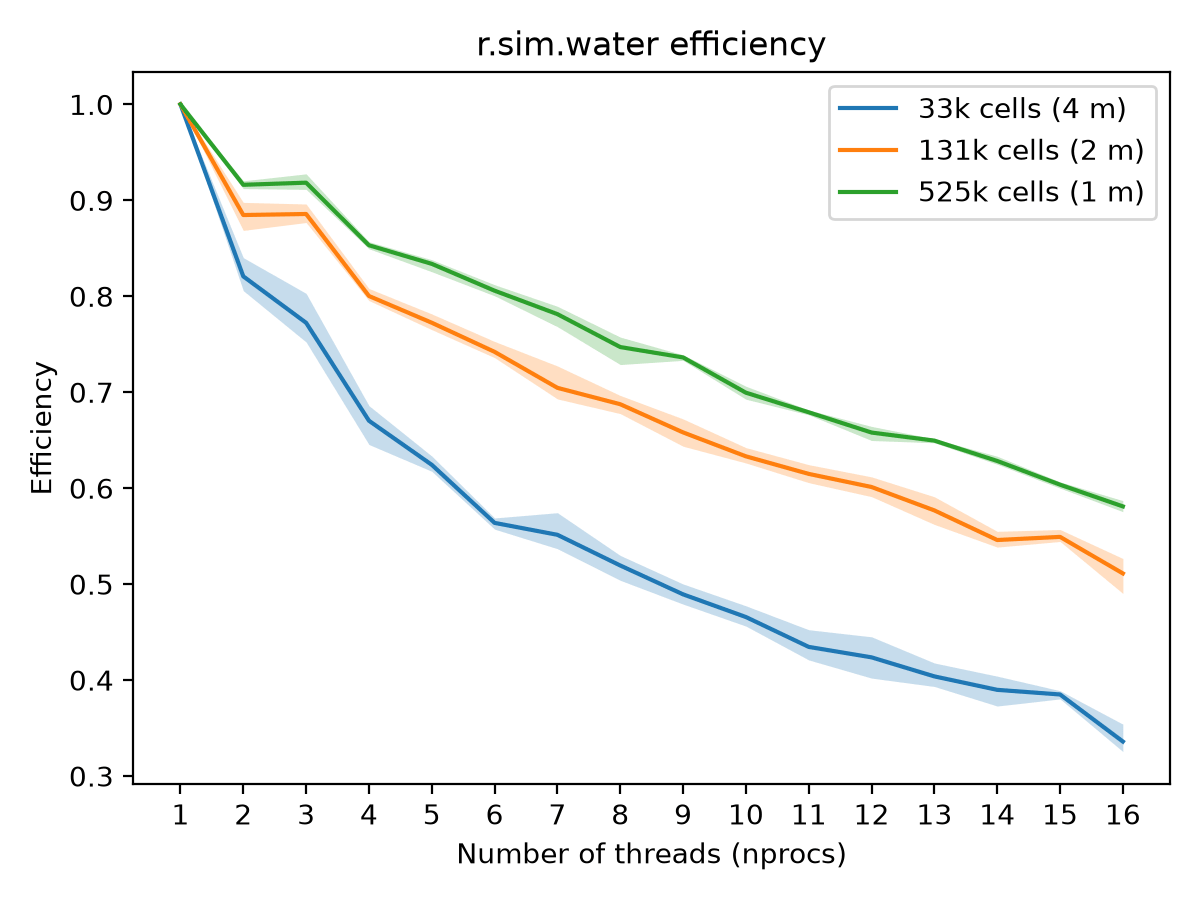
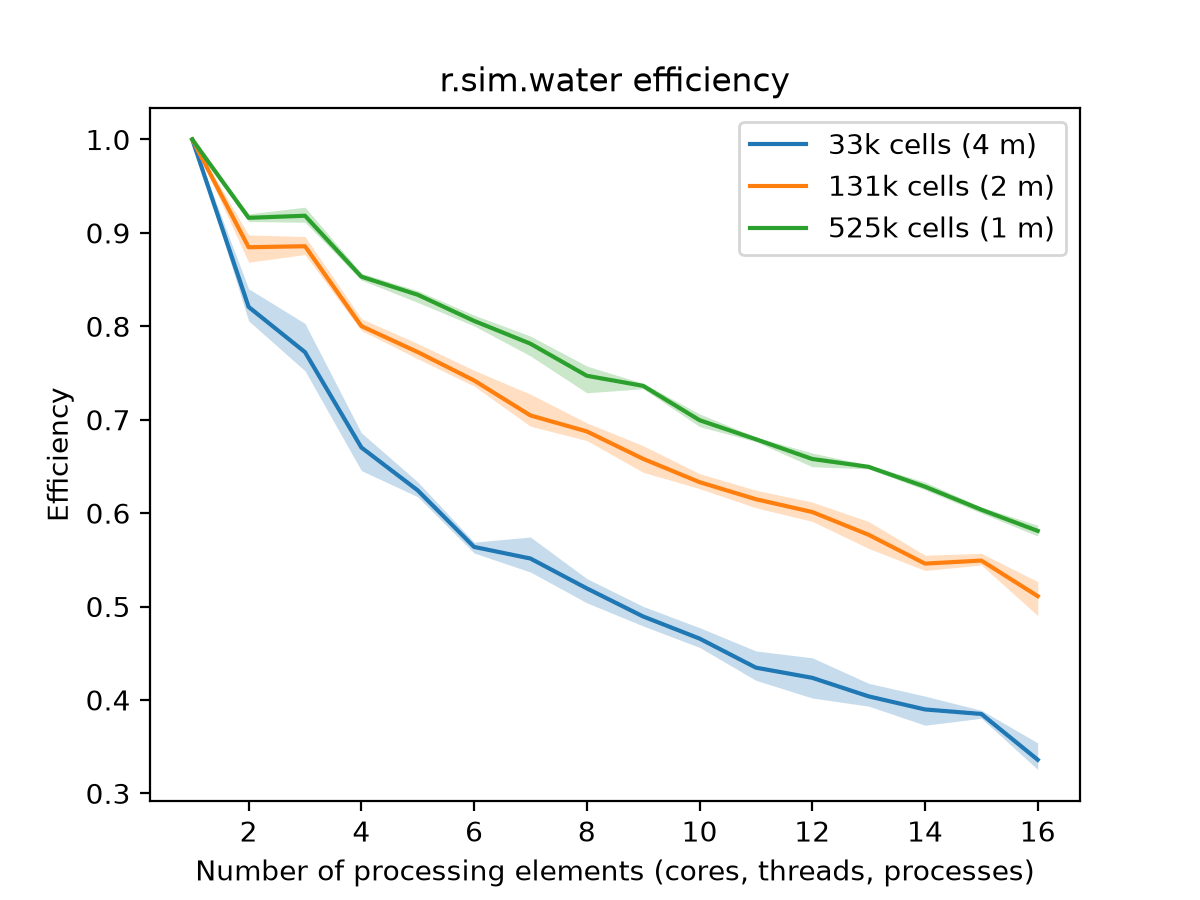
grass.benchmark: Shade the range of the runs in nprocs plots
nprocs_plot() shaded the range of the runs in gray and only for time.
Shade it in each line's color for time, speedup and efficiency: for
speedup, over the ratios of every serial run to every run with the given
nprocs, and for efficiency, that divided by nprocs. The range is computed
by nprocs_ranges(), which returns None for results without all_times, so
such results are plotted again instead of failing. Add figsize and dpi so
that figures for the documentation can be made at a higher resolution,
and close the figure after saving it. The default title for time was
never set because the metric was compared with "times".

The subpackage is experimental; say in its documentation that it is
changed together with the benchmarks which need more from it.

The r.sim.water benchmark now plots with nprocs_plot() instead of its own
matplotlib code; its figures are redrawn from the same results.

Written with the help of Claude Code.

Changed region(s): [[0.0308, 0.0311, 0.9867, 0.9956], [0.8017, 0.4978, 0.8633, 0.5289], [0.5858, 0.4044, 0.6167, 0.4356]]

diff --git a/python/grass/benchmark/plots.py b/python/grass/benchmark/plots.py
@@ -32,7 +32,41 @@ def get_pyplot(to_file):
     return plt
 
 
-def nprocs_plot(results, filename=None, title=None, metric="time"):
+def nprocs_ranges(result, metric):
+    """Return the lowest and highest values of a metric for each nprocs.
+
+    The range of time is the fastest and the slowest run. The range of
+    speedup spans the ratios of every serial run to every run with the given
+    nprocs; efficiency is that divided by nprocs. The serial runs are those
+    with nprocs 1, or with the smallest nprocs when there is no 1. At that
+    nprocs, speedup and efficiency are 1 by definition, so the range is
+    empty there.
+
+    Returns None when the result has no *all_times*.
+    """
+    all_times = getattr(result, "all_times", None)
+    if not all_times:
+        return None
+    if metric == "time":
+        return [min(t) for t in all_times], [max(t) for t in all_times]
+    serial_index = result.nprocs.index(min(result.nprocs))
+    serial = all_times[serial_index]
+    lows, highs = [], []
+    for i, (nprocs, times) in enumerate(zip(result.nprocs, all_times, strict=True)):
+        if i == serial_index:
+            low = high = 1
+        else:
+            low, high = min(serial) / max(times), max(serial) / min(times)
+        if metric == "efficiency":
+            low, high = low / nprocs, high / nprocs
+        lows.append(low)
+        highs.append(high)
+    return lows, highs
+
+
+def nprocs_plot(
+    results, filename=None, title=None, metric="time", figsize=None, dpi=None
+):
     """Plot results from a multiple nprocs (thread) benchmarks.
 
     *results* is a list of individual results from separate benchmarks.
@@ -48,31 +82,39 @@ def nprocs_plot(results, filename=None, title=None, metric="time"):
 
     Optionally, result can have an *all_times* attribute which is a list
     of lists. One sublist is all times recorded for each value of nprocs.
+    With it, the range of the runs is shaded around each line in the line's
+    color, see :func:`nprocs_ranges`.
 
     Each result can come with a different list of nprocs, i.e., benchmarks
     which used different values for nprocs can be combined in one plot.
+
+    *figsize* (width and height in inches) and *dpi* are passed to
+    matplotlib; the size of a saved image in pixels is their product.
     """
     ylabel = ""
     plt = get_pyplot(to_file=bool(filename))
-    _, axes = plt.subplots()
+    _, axes = plt.subplots(figsize=figsize, dpi=dpi)
 
     x_ticks = set()  # gather x values
     for result in results:
         x = result.nprocs
         x_ticks.update(x)
         if metric == "time":
-            mins = [min(i) for i in result.all_times]
-            maxes = [max(i) for i in result.all_times]
-            plt.plot(x, result.times, label=result.label)
-            plt.fill_between(x, mins, maxes, color="gray", alpha=0.3)
+            values = result.times
             ylabel = "Time [s]"
         elif metric in {"speedup", "efficiency"}:
+            values = getattr(result, metric)
             ylabel = metric.title()
-            plt.plot(x, getattr(result, metric), label=result.label)
         else:
             msg = f"Invalid metric '{metric}' in result, it should be:\
                 'time', 'speedup' or 'efficiency'"
             raise ValueError(msg)
+        (line,) = plt.plot(x, values, label=result.label)
+        ranges = nprocs_ranges(result, metric)
+        if ranges:
+            plt.fill_between(
+                x, *ranges, color=line.get_color(), alpha=0.25, linewidth=0
+            )
     plt.legend()
     # If there is not many x values, show ticks for each, but use default
     # ticks when there is a lot of x values.
@@ -88,12 +130,13 @@ def nprocs_plot(results, filename=None, title=None, metric="time"):
     plt.ylabel(ylabel)
     if title:
         plt.title(title)
-    elif metric == "times":
+    elif metric == "time":
         plt.title("Execution time by processing elements")
     elif metric in {"speedup", "efficiency"}:
         plt.title(f"{metric.title()} by processing elements")
     if filename:
         plt.savefig(filename)
+        plt.close()
     else:
         plt.show()
 

diff --git a/raster/r.sim/r.sim.water/benchmark/benchmark_r_sim_water_nprocs.py b/raster/r.sim/r.sim.water/benchmark/benchmark_r_sim_water_nprocs.py
@@ -16,14 +16,12 @@ The plots and the results as JSON are written to the current directory.
 To redo the plots from saved results without running the benchmark, pass
 the JSON file as an argument.
 
-The plots show the mean of the repeated runs, shaded between the fastest
-and the slowest run. For speedup and efficiency, the shading spans the
-ratios of every serial run to every parallel run.
+The plots show the mean of the repeated runs with the range of the runs
+shaded (see grass.benchmark.nprocs_plot).
 
 @author Vaclav Petras
 """
 
-import statistics
 import sys
 from subprocess import DEVNULL
 
@@ -53,52 +51,16 @@ def main():
 
 def plot(results):
     """Plot time, speedup and efficiency with the range of the runs"""
-    import matplotlib as mpl  # pylint: disable=import-outside-toplevel
-
-    mpl.use("Agg")
-    import matplotlib.pyplot as plt  # pylint: disable=import-outside-toplevel
-
-    for metric, ylabel in [
-        ("time", "Time [s]"),
-        ("speedup", "Speedup"),
-        ("efficiency", "Efficiency"),
-    ]:
+    for metric in ["time", "speedup", "efficiency"]:
         # Twice the 600 pixels of the documentation, shown at half the size.
-        fig, ax = plt.subplots(figsize=(6, 4.5), dpi=200)
-        for result in results:
-            serial = result.all_times[0]
-            values, lows, highs = [], [], []
-            for nprocs, times in zip(result.nprocs, result.all_times, strict=True):
-                if metric == "time":
-                    value, low, high = statistics.mean(times), min(times), max(times)
-                elif nprocs == 1:
-                    # The speedup at one thread is 1 by definition.
-                    value = low = high = 1
-                else:
-                    value = statistics.mean(serial) / statistics.mean(times)
-                    low, high = min(serial) / max(times), max(serial) / min(times)
-                if metric == "efficiency":
-                    value, low, high = value / nprocs, low / nprocs, high / nprocs
-                values.append(value)
-                lows.append(low)
-                highs.append(high)
-            (line,) = ax.plot(result.nprocs, values, label=result.label)
-            ax.fill_between(
-                result.nprocs,
-                lows,
-                highs,
-                color=line.get_color(),
-                alpha=0.25,
-                linewidth=0,
-            )
-        ax.set_xticks(results[0].nprocs)
-        ax.set_xlabel("Number of threads (nprocs)")
-        ax.set_ylabel(ylabel)
-        ax.set_title(f"r.sim.water {metric}")
-        ax.legend()
-        fig.tight_layout()
-        fig.savefig(f"r_sim_water_benchmark_{metric}.png")
-        plt.close(fig)
+        bm.nprocs_plot(
+            results,
+            filename=f"r_sim_water_benchmark_{metric}.png",
+            title=f"r.sim.water {metric}",
+            metric=metric,
+            figsize=(6, 4.5),
+            dpi=200,
+        )
 
 
 def benchmark(resolution, results):

diff --git a/python/grass/benchmark/tests/grass_benchmark_plots_test.py b/python/grass/benchmark/tests/grass_benchmark_plots_test.py
@@ -1,0 +1,74 @@
+"""Tests of the nprocs plot and its ranges in grass.benchmark"""
+
+from types import SimpleNamespace
+
+import pytest
+
+from grass.benchmark import nprocs_plot
+from grass.benchmark.plots import nprocs_ranges
+
+
+def make_result(nprocs, all_times, label="test"):
+    times = [sum(t) / len(t) for t in all_times]
+    return SimpleNamespace(
+        nprocs=nprocs,
+        all_times=all_times,
+        times=times,
+        speedup=[times[0] / t for t in times],
+        efficiency=[times[0] / (n * t) for n, t in zip(nprocs, times, strict=True)],
+        label=label,
+    )
+
+
+def test_time_range_is_min_max_of_runs():
+    result = make_result([1, 2], [[10.0, 12.0, 11.0], [6.0, 5.0, 7.0]])
+    assert nprocs_ranges(result, "time") == ([10.0, 5.0], [12.0, 7.0])
+
+
+def test_speedup_range_spans_ratios_of_serial_to_parallel_runs():
+    result = make_result([1, 2], [[10.0, 12.0], [5.0, 6.0]])
+    lows, highs = nprocs_ranges(result, "speedup")
+    assert lows == [1, 10.0 / 6.0]
+    assert highs == [1, 12.0 / 5.0]
+
+
+def test_efficiency_range_is_speedup_range_per_thread():
+    result = make_result([1, 4], [[8.0, 12.0], [2.0, 4.0]])
+    lows, highs = nprocs_ranges(result, "efficiency")
+    assert lows == [1, 8.0 / 4.0 / 4]
+    assert highs == [1, 12.0 / 2.0 / 4]
+
+
+def test_serial_is_smallest_nprocs():
+    result = make_result([2, 4], [[6.0, 6.0], [3.0, 4.0]])
+    lows, highs = nprocs_ranges(result, "speedup")
+    assert lows == [1, 6.0 / 4.0]
+    assert highs == [1, 6.0 / 3.0]
+
+
+def test_no_range_without_all_times():
+    result = SimpleNamespace(nprocs=[1, 2], times=[2.0, 1.0], label="test")
+    assert nprocs_ranges(result, "time") is None
+
+
+@pytest.mark.parametrize("metric", ["time", "speedup", "efficiency"])
+def test_plot_file_has_requested_size(tmp_path, metric):
+    pytest.importorskip("matplotlib")
+    results = [make_result([1, 2, 4], [[4.0, 4.2], [2.1, 2.3], [1.2, 1.4]])]
+    filename = tmp_path / f"{metric}.png"
+    nprocs_plot(
+        results, filename=str(filename), metric=metric, figsize=(6, 4.5), dpi=50
+    )
+    with open(filename, "rb") as f:
+        header = f.read(24)
+    # PNG width and height are big-endian integers at bytes 16 to 24.
+    assert int.from_bytes(header[16:20], "big") == 300
+    assert int.from_bytes(header[20:24], "big") == 225
+
+
+def test_plot_without_all_times(tmp_path):
+    pytest.importorskip("matplotlib")
+    results = [SimpleNamespace(nprocs=[1, 2], times=[2.0, 1.0], label="test")]
+    filename = tmp_path / "time.png"
+    nprocs_plot(results, filename=str(filename))
+    assert filename.is_file()

diff --git a/python/grass/benchmark/__init__.py b/python/grass/benchmark/__init__.py
@@ -11,6 +11,9 @@
 """Benchmarking for GRASS modules
 
 This subpackage of the grass package is experimental and the API can change anytime.
+When a benchmark of a tool needs more than the subpackage offers, for example an
+option of a plot, the subpackage is changed together with the benchmark, typically
+in the same pull request.
 The API of the package is defined by what is imported in the top-level ``__init__.py``
 file of the subpackage.
 
